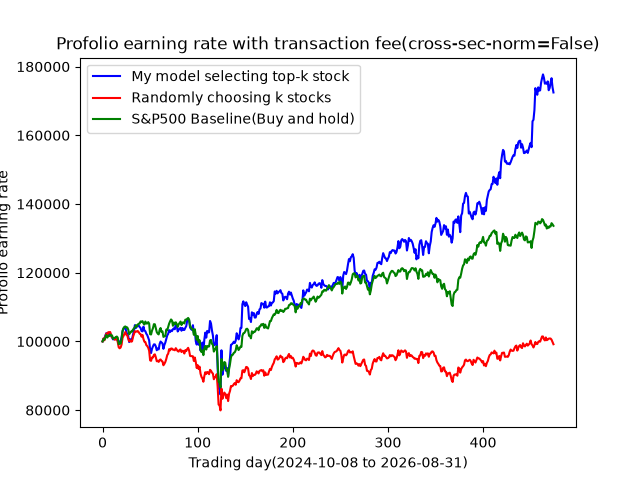
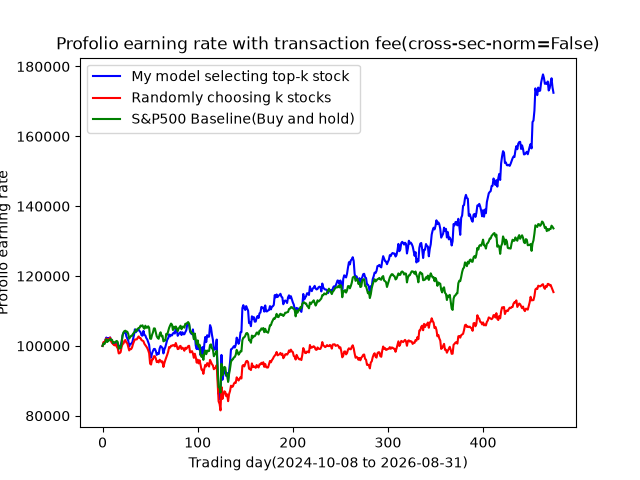
update

diff --git a/run.py b/run.py
@@ -16,11 +16,11 @@ import yfinance as yf
 
 tickers = ['A', 'AAPL', 'ABBV', 'ABNB', 'ABT', 'ACGL', 'ACN', 'ADBE', 'ADI', 'ADM', 'ADP', 'ADSK', 'AEE', 'AEP', 'AES', 'AFL', 'AIG', 'AIZ', 'AJG', 'AKAM', 'ALB', 'ALGN', 'ALL', 'ALLE', 'AMAT', 'AMCR', 'AMD', 'AME', 'AMGN', 'AMP', 'AMT', 'AMZN', 'ANET', 'AON', 'AOS', 'APA', 'APD', 'APH', 'APO', 'APP', 'APTV', 'ARE', 'ARES', 'ATO', 'AVGO', 'AVY', 'AWK', 'AXON', 'AXP', 'AZO', 'BA', 'BAC', 'BALL', 'BAX', 'BBY', 'BDX', 'BEN', 'BF-B', 'BG', 'BIIB', 'BKNG', 'BKR','BLDR', 'BLK', 'BMY', 'BNY', 'BR', 'BRK-B', 'BRO', 'BSX', 'BX', 'BXP', 'C', 'CAH', 'CARR', 'CASY', 'CAT', 'CB', 'CBOE', 'CBRE', 'CCI', 'CCL', 'CDNS', 'CDW', 'CEG', 'CF', 'CFG', 'CHD', 'CHRW', 'CHTR', 'CI', 'CIEN', 'CINF', 'CL', 'CLX', 'CMCSA', 'CME', 'CMG', 'CMI', 'CMS', 'CNC', 'CNP', 'COF', 'COHR', 'COIN', 'COO', 'COP', 'COR', 'COST', 'CPAY', 'CPRT', 'CPT', 'CRH', 'CRL', 'CRM', 'CRWD', 'CSCO', 'CSGP', 'CSX', 'CTAS', 'CTSH', 'CTVA', 'CVNA', 'CVS', 'CVX', 'D', 'DAL', 'DASH', 'DD', 'DDOG', 'DE', 'DECK', 'DELL', 'DG', 'DGX', 'DHI', 'DHR', 'DIS', 'DLR', 'DLTR', 'DOC', 'DOV', 'DOW', 'DPZ', 'DRI', 'DTE', 'DUK', 'DVA', 'DVN', 'DXCM', 'EBAY', 'ECHO', 'ECL', 'ED', 'EFX', 'EG', 'EIX', 'EL', 'ELV', 'EME', 'EMR', 'EOG', 'EQIX', 'EQT', 'ERIE', 'ES', 'ESS', 'ETN', 'ETR', 'EVRG', 'EW', 'EXC', 'EXE', 'EXPD', 'EXPE', 'EXR', 'F', 'FANG', 'FAST', 'FCX', 'FDS', 'FDX', 'FDXF', 'FE', 'FERG', 'FFIV', 'FICO', 'FIS','FISV', 'FITB', 'FIX', 'FLEX', 'FOX', 'FOXA', 'FRT', 'FSLR', 'FTNT', 'FTV', 'GD', 'GDDY', 'GE', 'GEHC', 'GEN', 'GEV', 'GILD', 'GIS', 'GL', 'GLW', 'GM', 'GNRC', 'GOOG', 'GOOGL', 'GPC', 'GPN', 'GRMN', 'GS', 'GWW', 'HAL', 'HAS', 'HBAN', 'HCA', 'HD', 'HIG', 'HII', 'HLT', 'HON', 'HONA', 'HOOD', 'HPE', 'HPQ', 'HRL', 'HSIC', 'HST', 'HSY', 'HUBB', 'HUM', 'HWM', 'IBKR', 'IBM', 'ICE', 'IDXX', 'IEX', 'IFF', 'INCY', 'INTC', 'INTU', 'INVH', 'IP', 'IQV', 'IR', 'IRM', 'ISRG', 'IT', 'ITW', 'IVZ', 'J', 'JBHT', 'JBL', 'JCI', 'JKHY', 'JNJ', 'JPM', 'KDP', 'KEY', 'KEYS', 'KHC', 'KIM', 'KKR', 'KLAC', 'KMB', 'KMI', 'KO', 'KR', 'KVUE', 'L', 'LDOS', 'LEN', 'LH', 'LHX', 'LII', 'LIN', 'LITE', 'LLY', 'LMT', 'LNT', 'LOW', 'LRCX', 'LULU', 'LUV', 'LVS', 'LYB', 'LYV', 'MA', 'MAA', 'MAR', 'MAS', 'MCD', 'MCHP', 'MCK', 'MCO', 'MDLZ', 'MDT', 'MET', 'META', 'MGM', 'MKC', 'MLM', 'MMM', 'MNST', 'MO', 'MOS', 'MPC', 'MPWR', 'MRK', 'MRNA', 'MRSH', 'MRVL', 'MS', 'MSCI', 'MSFT', 'MSI', 'MTB', 'MTD', 'MU', 'NCLH', 'NDAQ', 'NDSN', 'NEE', 'NEM', 'NFLX', 'NI', 'NKE', 'NOC', 'NOW', 'NRG','NSC', 'NTAP', 'NTRS', 'NUE', 'NVDA', 'NVR', 'NWS', 'NWSA', 'NXPI', 'O', 'ODFL', 'OKE', 'OMC', 'ON', 'ORCL', 'ORLY', 'OTIS', 'OXY', 'PANW', 'PAYX', 'PCAR', 'PCG', 'PEG', 'PEP', 'PFE', 'PFG', 'PG', 'PGR', 'PH', 'PHM', 'PKG', 'PLD', 'PLTR', 'PM', 'PNC', 'PNR', 'PNW', 'PODD', 'PPG', 'PPL', 'PRU', 'PSA','PSKY', 'PSX', 'PTC', 'PWR', 'PYPL', 'Q', 'QCOM', 'RCL', 'RDDT', 'REG', 'REGN', 'RF', 'RJF', 'RL', 'RMD', 'ROK', 'ROL', 'ROP', 'ROST', 'RSG', 'RTX', 'RVTY', 'SBAC', 'SBUX', 'SCHW', 'SHW', 'SJM', 'SLB', 'SMCI', 'SNA', 'SNDK', 'SNPS', 'SO', 'SOLV', 'SPG', 'SPGI', 'SRE', 'STE', 'STLD', 'STT', 'STX', 'STZ', 'SW', 'SWK', 'SWKS', 'SYF', 'SYK', 'SYY', 'T', 'TAP', 'TDG', 'TDY', 'TECH', 'TEL', 'TER', 'TFC', 'TGT', 'TJX', 'TKO', 'TMO', 'TMUS', 'TPL', 'TPR', 'TRGP', 'TRMB', 'TROW', 'TRV', 'TSCO', 'TSLA', 'TSN', 'TT', 'TTD', 'TTWO', 'TXN', 'TXT', 'TYL', 'UAL', 'UBER', 'UDR', 'UHS', 'ULTA', 'UNH', 'UNP', 'UPS', 'URI', 'USB', 'V', 'VEEV', 'VICI', 'VLO', 'VLTO', 'VMC', 'VMRK', 'VRSK', 'VRSN', 'VRT', 'VRTX', 'VST', 'VTR', 'VTRS', 'VZ', 'WAB', 'WAT', 'WBD', 'WDAY', 'WDC', 'WEC', 'WELL', 'WFC', 'WM', 'WMB', 'WMT', 'WRB', 'WSM', 'WST', 'WTW', 'WY', 'WYNN', 'XEL', 'XOM', 'XYL', 'XYZ', 'YUM', 'ZBH', 'ZBRA', 'ZTS']
 custom_features = ["RESI5", "WVMA5", "RSQR5", "KLEN", "RSQR10", "CORR5", "CORD5", "CORR10", "ROC60", "RESI10", "VSTD5", "RSQR60", "CORR60", "WVMA60", "STD5", "RSQR20", "CORD60", "CORD10", "CORR20", "KLOW"]
-cross_norm = True
+cross_norm = False
 split_ratio = 0.8
 model_type = "lightgbm"
 starting_value = 100000 #100k usd , 十萬美元
-seeds = [67,43]
+seeds = [67]
 k = 50
 start = "2024-10-08 00:00:00-04:00"
 end = "2026-08-31 00:00:00-04:00"

diff --git a/quantitative/tools.py b/quantitative/tools.py
@@ -1,5 +1,17 @@
 import numpy as np
 
+def calculate_sharpe_ratio(return_list):
+    """
+    we compare the model return to the risk free method -- US bond
+    Since the backtesting period start from 2024-10-08 to 2026-08-31(about 1.8945 years), we uses the interest rate from a 2-year zero-coupon bond
+    delivered in October-2024, in which it's interest rate is about 4.1%
+    Source: https://www.investing.com/rates-bonds/u.s.-2-year-bond-yield-historical-data
+    """
+    risk_free_mean_return = 1.041**(1 / 252) - 1
+    sharpe_ratio = (np.mean(return_list) - risk_free_mean_return)/np.std(return_list)*np.sqrt(252)
+
+    return sharpe_ratio
+    
 def quantitative_result(prof,rand,base,n_days,total_ic):
     prof_returns = np.diff(prof) / prof[:-1] # 每天的策略收益率
     base_returns = np.diff(base) / base[:-1] # 每天的大盤收益率
@@ -11,7 +23,8 @@ def quantitative_result(prof,rand,base,n_days,total_ic):
 
     # 2. 年化夏普比率 (Annualized Sharpe Ratio)
     # 每日夏普轉年化需要乘以 sqrt(252)
-    sharpe_ratio = (np.mean(prof_returns) / np.std(prof_returns)) * np.sqrt(252)
+    profolio_sharpe_ratio = calculate_sharpe_ratio(prof_returns)
+    baseline_sharpe_ratio = calculate_sharpe_ratio(base_returns)
 
     # 3. 最大回撤 (Maximum Drawdown)
     prof_array = np.array(prof)
@@ -30,11 +43,12 @@ def quantitative_result(prof,rand,base,n_days,total_ic):
         max_dd,
         ic_mean,
         postive_ic_rate,
-        sharpe_ratio,
+        profolio_sharpe_ratio,
+        baseline_sharpe_ratio,
     )
 
 def save_quantitative_result(save_path,result):
-    ann_return,base_return,max_dd,ic_mean,postive_ic_rate,sharpe_ratio = result
+    ann_return,base_return,max_dd,ic_mean,postive_ic_rate,profolio_sharpe_ratio,baseline_sharpe_ratio = result
     
     with open(save_path, "w", encoding="utf-8") as f:
         f.write("\n" + "="*30 + " QUANT PERFORMANCE REPORT " + "="*30 + "\n")
@@ -43,7 +57,8 @@ def save_quantitative_result(save_path,result):
         f.write(f"Maximum Drawdown     : {max_dd * 100:.2f}%\n")
         f.write(f"Mean IC              : {ic_mean:.4f}\n")
         f.write(f"Positive IC days     : {postive_ic_rate * 100:.2f}%\n")
-        f.write(f"Sharpe Ratio         : {sharpe_ratio:.2f}\n")
+        f.write(f"Sharpe Ratio(Model)  : {profolio_sharpe_ratio:.2f}\n")
+        f.write(f"Sharpe Ratio(S&P500) : {baseline_sharpe_ratio:.2f}\n")
         f.write("="*86 + "\n")
 
     print(f"Report successfully saved to {save_path}")
